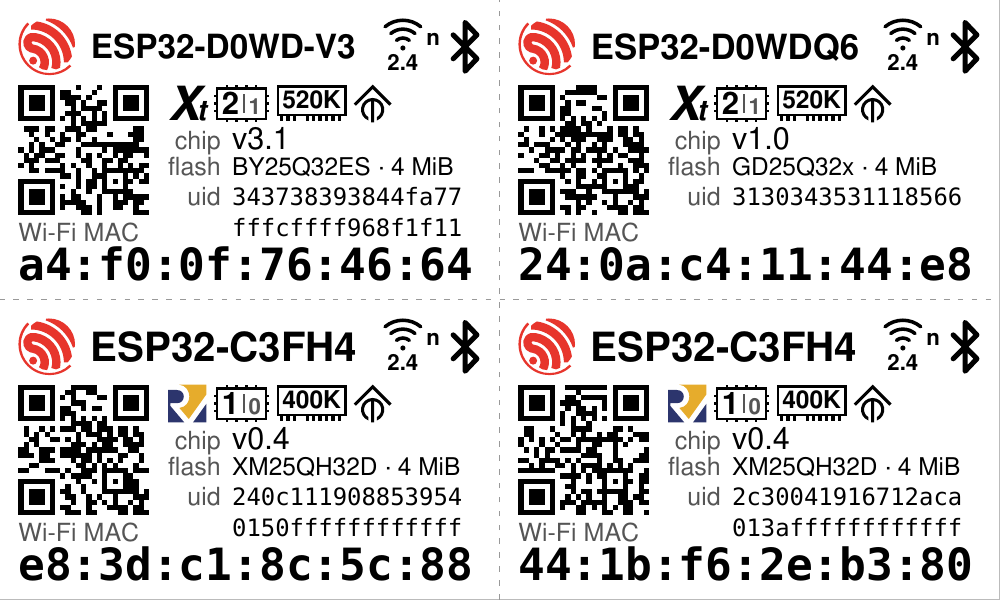
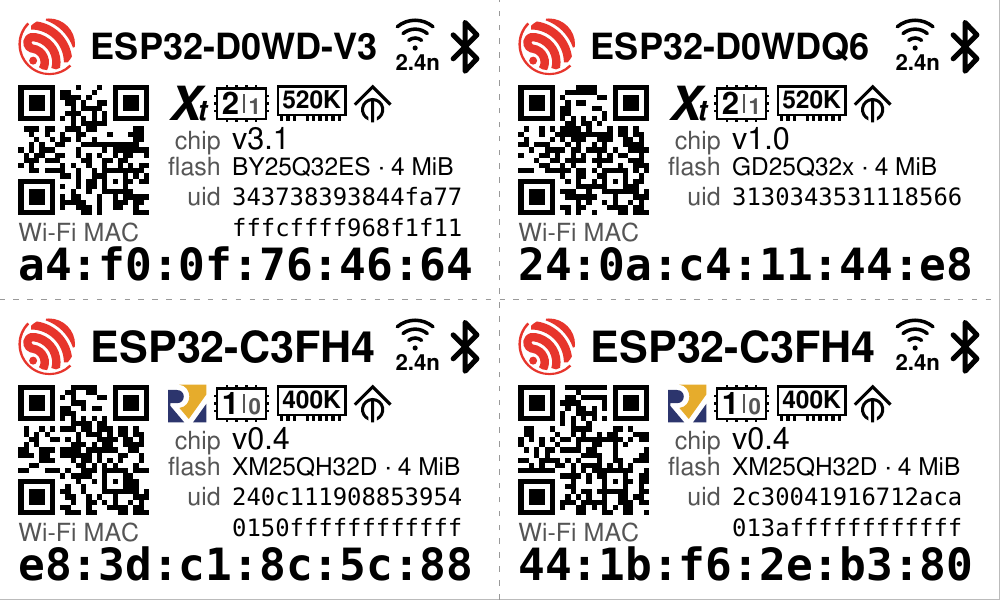
micro: the Wi-Fi glyph's one standard joins its band, "2.4n", "2.4/5ax"
Tim asked for the Wi-Fi letters to be part of the frequency number, so a
lone standard now prints on the band's line under the arcs rather than
beside them: "2.4n" on a Wi-Fi 4 part, "2.4ax" on a C6, "2.4/5ax" on a C5.

Claude-Session: https://claude.ai/code/session_01PBYpeR32kHxmN65GqkGhJx

diff --git a/tests/test_micro.py b/tests/test_micro.py
@@ -362,10 +362,11 @@ def _glyph_text(monkeypatch, name, text, size=None):
     ("2.4 b/g/n", ["2.4", "b/g/n"]),
     ("2.4 b/g/n/ax", ["2.4", "b/g/n", "ax"]),
     ("2.4/5 a/b/g/n/ac/ax", ["2.4/5", "a/b/g/n", "ac/ax"]),
-    # the newest standard alone, as the ESP32 labels print it: beside the
-    # arcs, whether it has one letter or two
-    ("2.4 n", ["2.4", "n"]),
-    ("2.4/5 ax", ["2.4/5", "ax"]),
+    # the newest standard alone, as the ESP32 labels print it: joined to the
+    # band under the arcs, "2.4n", "2.4/5ax" (Tim, 2026-09-27)
+    ("2.4 n", ["2.4n"]),
+    ("2.4 ax", ["2.4ax"]),
+    ("2.4/5 ax", ["2.4/5ax"]),
 ])
 def test_the_wifi_glyph_letters_its_bands_and_standards(monkeypatch, text, lines):
     """Tim, 2026-09-27: the Wi-Fi logo says which bands and which 802.11

diff --git a/src/rpi_hwid/micro.py b/src/rpi_hwid/micro.py
@@ -183,9 +183,10 @@ def wifi_lines(text: str) -> tuple[str, str, str]:
             "a Wi-Fi glyph's text is its bands and its 802.11 standards, "
             f"'2.4/5 a/b/g/n/ac/ax', not {text!r}")
     if len(got) == 1:
-        # one standard alone (the newest, as the ESP32 labels print it) goes
-        # beside the arcs, whether it has one letter or two
-        return bands, got[0], ""
+        # one standard alone (the newest, as the ESP32 labels print it) is
+        # joined to the band under the arcs: "2.4n", "2.4/5ax" (Tim,
+        # 2026-09-27)
+        return bands + got[0], "", ""
     return (bands, "/".join(g for g in got if len(g) == 1),
             "/".join(g for g in got if len(g) > 1))
 
